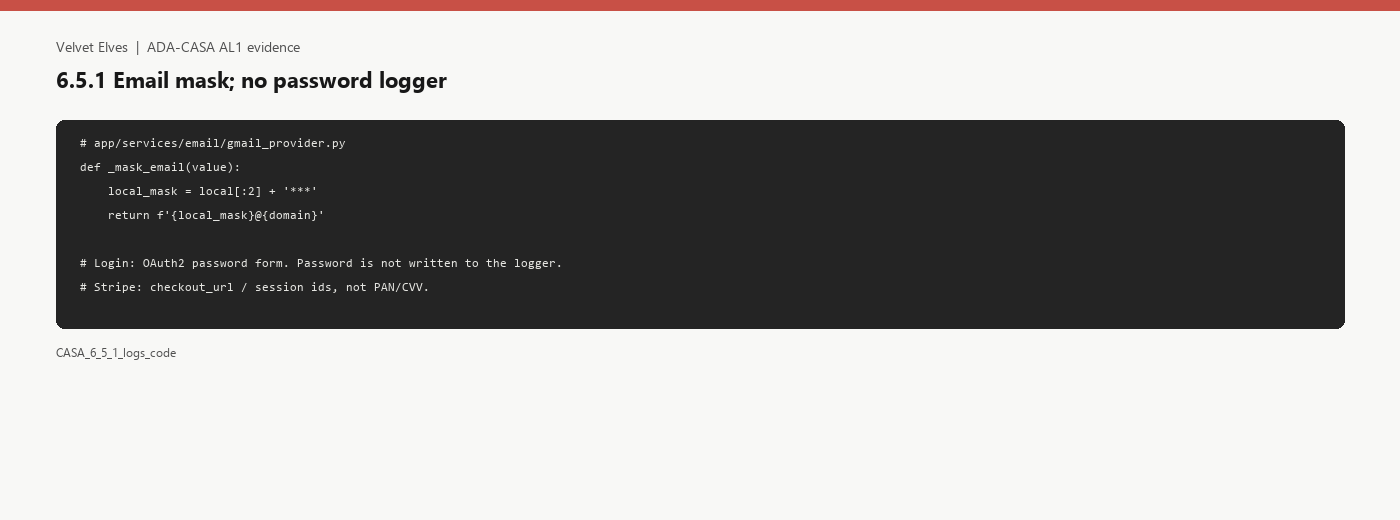
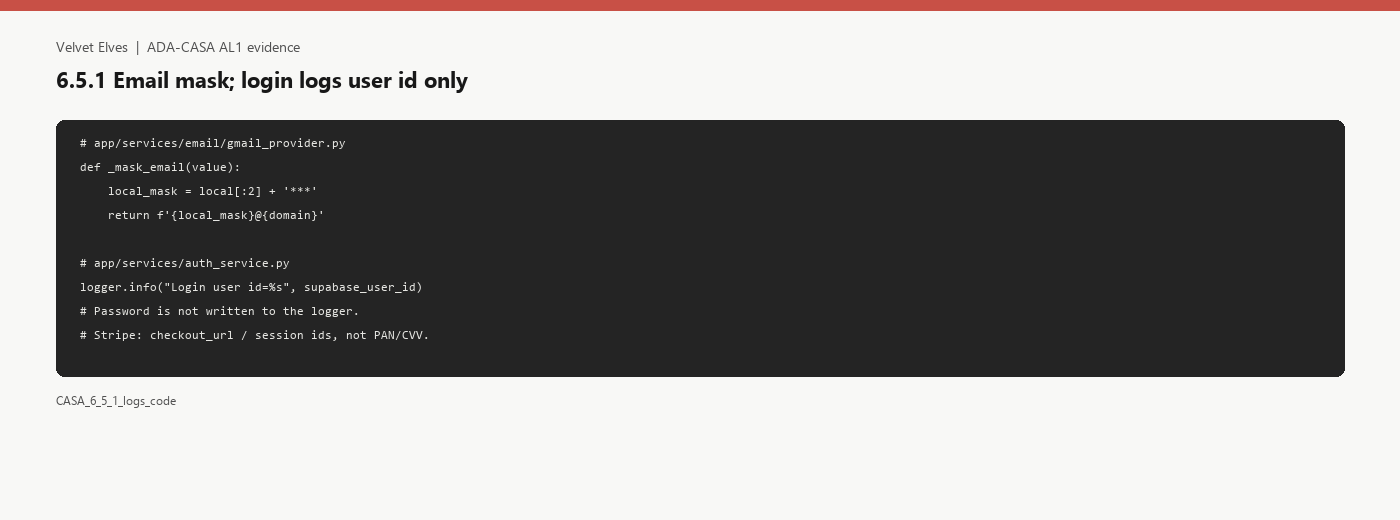
docs(casa): add staging CloudWatch login log sample for 6.5.1

Changed region(s): [[0.0307, 0.4923, 0.9829, 0.7385], [0.1843, 0.1231, 0.3379, 0.1846], [0.0307, 0.7692, 0.1229, 0.8]]

diff --git a/casa_auth_qa/append_casa_rest_pack.py b/casa_auth_qa/append_casa_rest_pack.py
@@ -349,23 +349,24 @@ Live DNS on 31 Aug 2026: app.velvetelves.com and app.stage.velvetelves.com resol
 
 **ADA:** Written description PLUS a login log sample PLUS a payment log sample.
 
-**Claimed:** Code does not log passwords; emails masked; Stripe holds PAN.
+**Claimed:** Code does not log passwords; emails masked; Stripe holds PAN. Staging CloudWatch login event logs user id + request_id only.
 
-**Missing (ADA-named):** CloudWatch (or other sink) sample from a real login. Sample from a real payment. These were NOT obtained.
+**Missing (ADA-named):** Sample from a real payment. Login sample is obtained.
 
 ### Images
 
 | File | Description |
 | --- | --- |
-| [`tac_images/6.5.1/CASA_6_5_1_logs_page1.png`](tac_images/6.5.1/CASA_6_5_1_logs_page1.png) | Write-up; states log samples missing |
+| [`tac_images/6.5.1/CASA_6_5_1_logs_page1.png`](tac_images/6.5.1/CASA_6_5_1_logs_page1.png) | Write-up |
 | [`tac_images/6.5.1/CASA_6_5_1_logs_page2.png`](tac_images/6.5.1/CASA_6_5_1_logs_page2.png) | AL1 mapping |
-| [`tac_images/6.5.1/CASA_6_5_1_logs_code.png`](tac_images/6.5.1/CASA_6_5_1_logs_code.png) | _mask_email |
-| [`tac_images/6.5.1/CASA_6_5_1_mask.png`](tac_images/6.5.1/CASA_6_5_1_mask.png) | Mask helper only, not CloudWatch |
+| [`tac_images/6.5.1/CASA_6_5_1_logs_code.png`](tac_images/6.5.1/CASA_6_5_1_logs_code.png) | _mask_email; Login user id logger |
+| [`tac_images/6.5.1/CASA_6_5_1_mask.png`](tac_images/6.5.1/CASA_6_5_1_mask.png) | Mask helper |
+| [`tac_images/6.5.1/CASA_6_5_1_login_log.png`](tac_images/6.5.1/CASA_6_5_1_login_log.png) | Staging Insights: Login user id, no password |
 
 ### Portal comment
 
 ```
-Login passwords are not written to the application logger. Gmail paths mask emails (local-part prefix plus ***). JSON logs include a request id, not the Authorization header. Card data is collected on Stripe Checkout; we store Stripe ids, not PAN or CVV. A CloudWatch (or other sink) extract captured during a live login was not obtained. A payment-process log extract was not obtained.
+Login passwords are not written to the application logger. Gmail paths mask emails (local-part prefix plus ***). JSON logs include a request id, not the Authorization header. Card data is collected on Stripe Checkout; we store Stripe ids, not PAN or CVV. Staging CloudWatch log group /ecs/velvet-elves/stage/backend on 31 Aug 2026 recorded INFO Login user id=<uuid> with a request_id; the event has no password field and no Authorization header. A payment-process log extract was not obtained.
 ```
 
 ---
@@ -444,7 +445,7 @@ def main():
 | 43 | 6.2.1 | Debug off in production | 5 | pack 6.2.1 |
 | 44 | 6.3.1 | Origin not authz | 5 | pack 6.3.1 |
 | 45 | 6.4.1 | Subdomain takeover | 4 | pack 6.4.1 |
-| 46 | 6.5.1 | No credential logs | 4 | pack 6.5.1 — log samples missing |
+| 46 | 6.5.1 | No credential logs | 5 | pack 6.5.1 — payment log missing |
 | 47 | 6.6.1 | Logout clears storage | 4 | pack 6.6.1 |
 | 48 | 6.7.1 | Server secrets | 3 | pack 6.7.1 — no AWS console |
 
@@ -528,7 +529,7 @@ def main():
         ),
         (
             "| 46 | 6.5.1 do not log credentials | `M9g_logging.md` | Logs mask emails No tokens or mail bodies |",
-            "| 46 | 6.5.1 do not log credentials | `tac_images/6.5.1/` | Code masks emails; passwords not logged. CloudWatch login and payment log samples were NOT obtained. |",
+            "| 46 | 6.5.1 do not log credentials | `tac_images/6.5.1/` — `CASA_6_5_1_logs_page1.png`, `logs_page2.png`, `logs_code.png`, `mask.png`, `login_log.png` | Login passwords are not written to the application logger. Gmail paths mask emails (local-part prefix plus ***). JSON logs include a request id, not the Authorization header. Card data is collected on Stripe Checkout; we store Stripe ids, not PAN or CVV. Staging CloudWatch log group /ecs/velvet-elves/stage/backend on 31 Aug 2026 recorded INFO Login user id=<uuid> with a request_id; the event has no password field and no Authorization header. A payment-process log extract was not obtained. |",
         ),
         (
             "| 47 | 6.6.1 clear browser storage on logout | `compensating_controls.md` | Logout clears velvet elves token keys in localStorage |",
@@ -561,7 +562,7 @@ def main():
         "| 43 | 6.2.1 | Ready | M9a + S11 | [ ] |": "| 43 | 6.2.1 | Packed 31 Aug (prod docs 404; staging docs 200) | CASA_6_2_1 | [ ] |",
         "| 44 | 6.3.1 | Ready | M9f | [ ] |": "| 44 | 6.3.1 | Packed 31 Aug (foreign Origin /users/me 401) | CASA_6_3_1 | [ ] |",
         "| 45 | 6.4.1 | Verify S9 | M9a + S9 | [ ] |": "| 45 | 6.4.1 | Packed 31 Aug (live DNS). Route 53 console NOT captured | CASA_6_4_1 | [ ] |",
-        "| 46 | 6.5.1 | Ready | M9g | [ ] |": "| 46 | 6.5.1 | Packed 31 Aug (code mask). CloudWatch login/payment logs NOT captured | CASA_6_5_1 | [ ] |",
+        "| 46 | 6.5.1 | Ready | M9g | [ ] |": "| 46 | 6.5.1 | Packed 31 Aug (code mask + staging CloudWatch login). Payment log NOT captured | CASA_6_5_1 | [ ] |",
         "| 47 | 6.6.1 | Ready (verified 27 Aug) | comp | [ ] |": "| 47 | 6.6.1 | Packed 31 Aug (clearTokens; after_logout copy from 2.2.1) | CASA_6_6_1 | [ ] |",
         "| 48 | 6.7.1 | Ready | M9d | [ ] |": "| 48 | 6.7.1 | Packed 31 Aug (Secrets Manager + Fernet). AWS console NOT captured | CASA_6_7_1 | [ ] |",
     }
@@ -581,7 +582,7 @@ def main():
 - **6.2.1** — Packed. Prod docs 404; staging docs 200.
 - **6.3.1** — Packed. Foreign Origin /users/me 401.
 - **6.4.1** — Packed live DNS. Route 53 console NOT captured.
-- **6.5.1** — Packed code mask. CloudWatch login/payment log samples NOT captured (ADA-named gap).
+- **6.5.1** — Packed code mask + staging CloudWatch login sample (user id only). Payment log sample NOT captured (ADA-named gap).
 - **6.6.1** — Packed. after_logout copied from 2.2.1.
 - **6.7.1** — Packed write-up. AWS Secrets Manager console NOT captured."""
     if old not in gap:

diff --git a/casa_auth_qa/render_casa_rest.py b/casa_auth_qa/render_casa_rest.py
@@ -354,8 +354,8 @@ Route 53 console: not captured.""",
         [
             ("Source", "ADA AL1 and AL2: written description, a login log sample, and a payment log sample if applicable. Session tokens in logs only as irreversible hashes."),
             ("Code", "Login takes the password in the POST body; handlers do not log it. Gmail paths mask emails (ab***@domain). JSON logs carry request_id, not Authorization. Payment card data is Stripe-hosted; we store Stripe ids, not PAN/CVV."),
-            ("Obtained", "Write-up and code PNGs; _mask_email snippet."),
-            ("Not obtained", "A CloudWatch (or other sink) sample captured during a real login. A sample captured during a real payment. AWS console is owner-captured. Do not claim those samples exist in this folder."),
+            ("Obtained", "Write-up and code PNGs; _mask_email snippet; staging CloudWatch login sample (INFO Login user id plus request_id; no password field)."),
+            ("Not obtained", "A CloudWatch (or other sink) sample captured during a real payment. Cards stay on Stripe Checkout; we store Stripe ids, not PAN/CVV."),
         ],
     )
     save_page2(
@@ -364,21 +364,23 @@ Route 53 console: not captured.""",
         "6.5.1 AL1 verification mapping",
         [
             ("Written description", "This page plus M9g_logging.md."),
-            ("Login log sample", "NOT captured from CloudWatch this session."),
+            ("Login log sample", "Staging CloudWatch /ecs/velvet-elves/stage/backend 31 Aug 2026: INFO Login user id=<uuid> plus request_id. No password, no Authorization."),
             ("Payment log sample", "NOT captured. Cards are on Stripe Checkout."),
         ],
-        "Code masks emails and does not log passwords or PAN. Live login and payment log extracts from CloudWatch were not obtained.",
+        "Code masks emails and does not log passwords or PAN. Staging CloudWatch login extract obtained 31 Aug 2026. A payment log extract was not obtained.",
     )
     save_code(
         d,
         "CASA_6_5_1_logs",
-        "6.5.1 Email mask; no password logger",
+        "6.5.1 Email mask; login logs user id only",
         """# app/services/email/gmail_provider.py
 def _mask_email(value):
     local_mask = local[:2] + '***'
     return f'{local_mask}@{domain}'
 
-# Login: OAuth2 password form. Password is not written to the logger.
+# app/services/auth_service.py
+logger.info("Login user id=%s", supabase_user_id)
+# Password is not written to the logger.
 # Stripe: checkout_url / session ids, not PAN/CVV.""",
     )
 

diff --git a/casa_auth_qa/casa_rest_live.py b/casa_auth_qa/casa_rest_live.py
@@ -278,7 +278,7 @@ def probe_651_mask():
         out("6.5.1"),
         "CASA_6_5_1_mask.png",
         "6.5.1  Email mask helper (not a CloudWatch login log)",
-        "CloudWatch login and payment log samples were NOT obtained.",
+        "Staging CloudWatch login sample obtained 31 Aug 2026. Payment sample still missing.",
         [(f"mask(agent.name@example.com) = {sample}", "not a live log extract", ok)],
     )
     return ok

diff --git a/casa_al1_evidence/m9/CASA_PORTAL_PACK.md b/casa_al1_evidence/m9/CASA_PORTAL_PACK.md
@@ -71,7 +71,7 @@ Global do-not-claim (these rows): HttpOnly session cookies; MFA default for **al
 | 43 | 6.2.1 | Debug off in production | 6 | pack 6.2.1 |
 | 44 | 6.3.1 | Origin not authz | 5 | pack 6.3.1 |
 | 45 | 6.4.1 | Subdomain takeover | 5 | pack 6.4.1 |
-| 46 | 6.5.1 | No credential logs | 4 | pack 6.5.1 — log samples missing |
+| 46 | 6.5.1 | No credential logs | 5 | pack 6.5.1 — payment log missing |
 | 47 | 6.6.1 | Logout clears storage | 5 | pack 6.6.1 |
 | 48 | 6.7.1 | Server secrets | 3 | pack 6.7.1 — no AWS console |
 
@@ -1565,23 +1565,24 @@ Live DNS on 31 Aug 2026: app.velvetelves.com and app.stage.velvetelves.com resol
 
 **ADA:** Written description PLUS a login log sample PLUS a payment log sample.
 
-**Claimed:** Code does not log passwords; emails masked; Stripe holds PAN.
+**Claimed:** Code does not log passwords; emails masked; Stripe holds PAN. Staging CloudWatch login event logs user id + request_id only.
 
-**Missing (ADA-named):** CloudWatch (or other sink) sample from a real login. Sample from a real payment. These were NOT obtained.
+**Missing (ADA-named):** Sample from a real payment. Login sample is obtained.
 
 ### Images
 
 | File | Description |
 | --- | --- |
-| [`tac_images/6.5.1/CASA_6_5_1_logs_page1.png`](tac_images/6.5.1/CASA_6_5_1_logs_page1.png) | Write-up; states log samples missing |
+| [`tac_images/6.5.1/CASA_6_5_1_logs_page1.png`](tac_images/6.5.1/CASA_6_5_1_logs_page1.png) | Write-up |
 | [`tac_images/6.5.1/CASA_6_5_1_logs_page2.png`](tac_images/6.5.1/CASA_6_5_1_logs_page2.png) | AL1 mapping |
-| [`tac_images/6.5.1/CASA_6_5_1_logs_code.png`](tac_images/6.5.1/CASA_6_5_1_logs_code.png) | _mask_email |
-| [`tac_images/6.5.1/CASA_6_5_1_mask.png`](tac_images/6.5.1/CASA_6_5_1_mask.png) | Mask helper only, not CloudWatch |
+| [`tac_images/6.5.1/CASA_6_5_1_logs_code.png`](tac_images/6.5.1/CASA_6_5_1_logs_code.png) | _mask_email; Login user id logger |
+| [`tac_images/6.5.1/CASA_6_5_1_mask.png`](tac_images/6.5.1/CASA_6_5_1_mask.png) | Mask helper |
+| [`tac_images/6.5.1/CASA_6_5_1_login_log.png`](tac_images/6.5.1/CASA_6_5_1_login_log.png) | Staging Insights: Login user id, no password |
 
 ### Portal comment
 
 ```
-Login passwords are not written to the application logger. Gmail paths mask emails (local-part prefix plus ***). JSON logs include a request id, not the Authorization header. Card data is collected on Stripe Checkout; we store Stripe ids, not PAN or CVV. A CloudWatch (or other sink) extract captured during a live login was not obtained. A payment-process log extract was not obtained.
+Login passwords are not written to the application logger. Gmail paths mask emails (local-part prefix plus ***). JSON logs include a request id, not the Authorization header. Card data is collected on Stripe Checkout; we store Stripe ids, not PAN or CVV. Staging CloudWatch log group /ecs/velvet-elves/stage/backend on 31 Aug 2026 recorded INFO Login user id=<uuid> with a request_id; the event has no password field and no Authorization header. A payment-process log extract was not obtained.
 ```
 
 ---

diff --git a/CASA/TAC_ESOF_PORTAL_GUIDE.md b/CASA/TAC_ESOF_PORTAL_GUIDE.md
@@ -271,7 +271,7 @@ Comments (punctuation allowed) and files:
 | 43 | 6.2.1 debug off in production | `tac_images/6.2.1/` — `CASA_6_2_1_debug_page1.png`, `debug_page2.png`, `debug_code.png`, `debug_zap.png`, `docs.png`, `ecs_env.png` | Production FastAPI hides OpenAPI UI: GET https://api.prod.velvetelves.com/api/docs, /api/redoc, and /api/openapi.json are 404. Staging still serves /api/docs (200). ECS task definition velvet-elves-prod-backend revision 52 sets APP_DEBUG=false and APP_ENV=production as plain environment values. API keys and APP_SECRET_KEY are valueFrom AWS Secrets Manager ARNs, not plaintext in the task. Official ZAP listed generic JSON 500 application-error as Low, not a debug console. We did not run Burp 1050624 (ASP.NET debugging); this app is FastAPI. |
 | 44 | 6.3.1 Origin not used as auth | `tac_images/6.3.1/` | GET /users/me with foreign Origin is 401. JWT authz. |
 | 45 | 6.4.1 subdomain takeover | `tac_images/6.4.1/` — `CASA_6_4_1_dns_page1.png`, `dns_page2.png`, `dns_code.png`, `dns.png`, `route53.png` | Live DNS on 31 Aug 2026: app.velvetelves.com and app.stage.velvetelves.com resolve to CloudFront addresses; api.prod.velvetelves.com and api.stage.velvetelves.com resolve to ALB addresses; help.velvetelves.com and velvetelves.com resolve. Route 53 hosted zone velvetelves.com shows app, app.stage, help, and help.stage as alias A/AAAA to CloudFront; api.prod as alias A to the prod API ALB; api.stage as CNAME to the stage API ALB. Underscore CNAMEs are ACM certificate validation at Amazon, not abandoned Heroku, GitHub, or S3 website endpoints. This filtered view does not include the zone apex row. WSTG-CONF-10 is AL2 and was not run. |
-| 46 | 6.5.1 do not log credentials | `tac_images/6.5.1/` | Code masks emails; passwords not logged. CloudWatch login and payment log samples were NOT obtained. |
+| 46 | 6.5.1 do not log credentials | `tac_images/6.5.1/` — `CASA_6_5_1_logs_page1.png`, `logs_page2.png`, `logs_code.png`, `mask.png`, `login_log.png` | Login passwords are not written to the application logger. Gmail paths mask emails (local-part prefix plus ***). JSON logs include a request id, not the Authorization header. Card data is collected on Stripe Checkout; we store Stripe ids, not PAN or CVV. Staging CloudWatch log group /ecs/velvet-elves/stage/backend on 31 Aug 2026 recorded INFO Login user id=<uuid> with a request_id; the event has no password field and no Authorization header. A payment-process log extract was not obtained. |
 | 47 | 6.6.1 clear browser storage on logout | `tac_images/6.6.1/` | Staging Log Out: token keys present then absent. velvet_elves_return_location remains. /login after logout. |
 | 48 | 6.7.1 server secrets | `tac_images/6.7.1/` | Secrets Manager plus Fernet. Disconnect is soft deactivate. AWS console and CloudTrail shots NOT obtained. No secret values attached. |
 

diff --git a/CASA/MISSING_SCREENSHOTS_CHECKLIST.md b/CASA/MISSING_SCREENSHOTS_CHECKLIST.md
@@ -46,8 +46,8 @@ Priority: **P0** ADA-named samples · **P1** owner consoles ADA asks for · **P2
 
 | Pri | ID | Missing shot | Who | Folder count now |
 | --- | --- | --- | --- | ---: |
-| P0 | [6.5.1](#651--do-not-log-credentials-or-payment-details) | Login log sample | Owner (CloudWatch) | 4 |
-| P0 | [6.5.1](#651--do-not-log-credentials-or-payment-details) | Payment log sample | Owner (CloudWatch or Stripe) | 4 |
+| P0 | [6.5.1](#651--do-not-log-credentials-or-payment-details) | Login log sample | Owner — **done 31 Aug** | 5 |
+| P0 | [6.5.1](#651--do-not-log-credentials-or-payment-details) | Payment log sample | Owner (CloudWatch or Stripe) | 5 |
 | P1 | [6.4.1](#641--subdomain-takeover) | Route 53 hosted zone | Owner — **done 31 Aug** | 5 |
 | P1 | [6.7.1](#671--server-side-secrets) | Secrets Manager console | Owner | 3 |
 | P1 | [6.7.1](#671--server-side-secrets) | CloudTrail secret-access | Owner | 3 |
@@ -330,7 +330,7 @@ Log group: `/ecs/velvet-elves/stage/backend` (prefer) or `/ecs/velvet-elves/prod
 **Must not show:** password, JWT, MFA secret.  
 **Save as:** `tac_images/6.5.1/CASA_6_5_1_login_log.png`
 
-- [ ] Login log sample PNG
+- [x] Login log sample PNG (`CASA_6_5_1_login_log.png`)
 
 ### B. Payment log
 
@@ -346,7 +346,7 @@ Log group: `/ecs/velvet-elves/stage/backend` (prefer) or `/ecs/velvet-elves/prod
 
 - [ ] Payment log sample PNG
 
-After both exist: edit `CASA_PORTAL_PACK.md` 6.5.1 **Missing** and the portal comment so they no longer say the samples were not obtained.
+After the payment sample exists: edit `CASA_PORTAL_PACK.md` 6.5.1 **Missing** and the portal comment so they no longer say the payment sample was not obtained.
 
 ---
 

diff --git a/CASA/CASA_48_CHECKS_REVISION_PLAN.md b/CASA/CASA_48_CHECKS_REVISION_PLAN.md
@@ -190,6 +190,6 @@ Verdicts from `GAP_ANALYSIS_48_CHECKS.md`. Comments: §7 of the portal guide.
 | 43 | 6.2.1 | Packed 31 Aug (prod docs 404; staging docs 200; ECS APP_DEBUG=false) | CASA_6_2_1 | [ ] |
 | 44 | 6.3.1 | Packed 31 Aug (foreign Origin /users/me 401) | CASA_6_3_1 | [ ] |
 | 45 | 6.4.1 | Packed 31 Aug (live DNS + Route 53 app/api/help to CloudFront/ALB) | CASA_6_4_1 | [ ] |
-| 46 | 6.5.1 | Packed 31 Aug (code mask). CloudWatch login/payment logs NOT captured | CASA_6_5_1 | [ ] |
+| 46 | 6.5.1 | Packed 31 Aug (code mask + staging CloudWatch login). Payment log NOT captured | CASA_6_5_1 | [ ] |
 | 47 | 6.6.1 | Packed 31 Aug (token keys gone after Log Out; return_location remains) | CASA_6_6_1 | [ ] |
 | 48 | 6.7.1 | Packed 31 Aug (Secrets Manager + Fernet). AWS console NOT captured | CASA_6_7_1 | [ ] |

diff --git a/casa_al1_evidence/m9/GAP_ANALYSIS_48_CHECKS.md b/casa_al1_evidence/m9/GAP_ANALYSIS_48_CHECKS.md
@@ -52,7 +52,7 @@
 - **6.2.1** — Packed. Prod docs 404; staging docs 200. ECS prod-backend rev 52 APP_DEBUG=false APP_ENV=production.
 - **6.3.1** — Packed. Foreign Origin /users/me 401.
 - **6.4.1** — Packed live DNS + Route 53 console (app/help CloudFront, api ALB). Filtered view does not include zone apex.
-- **6.5.1** — Packed code mask. CloudWatch login/payment log samples NOT captured (ADA-named gap).
+- **6.5.1** — Packed code mask + staging CloudWatch login sample (user id only). Payment log sample NOT captured (ADA-named gap).
 - **6.6.1** — Packed. Staging Log Out: token keys gone; velvet_elves_return_location remains. DevTools Application panel not captured.
 - **6.7.1** — Packed write-up. AWS Secrets Manager console NOT captured.
 
